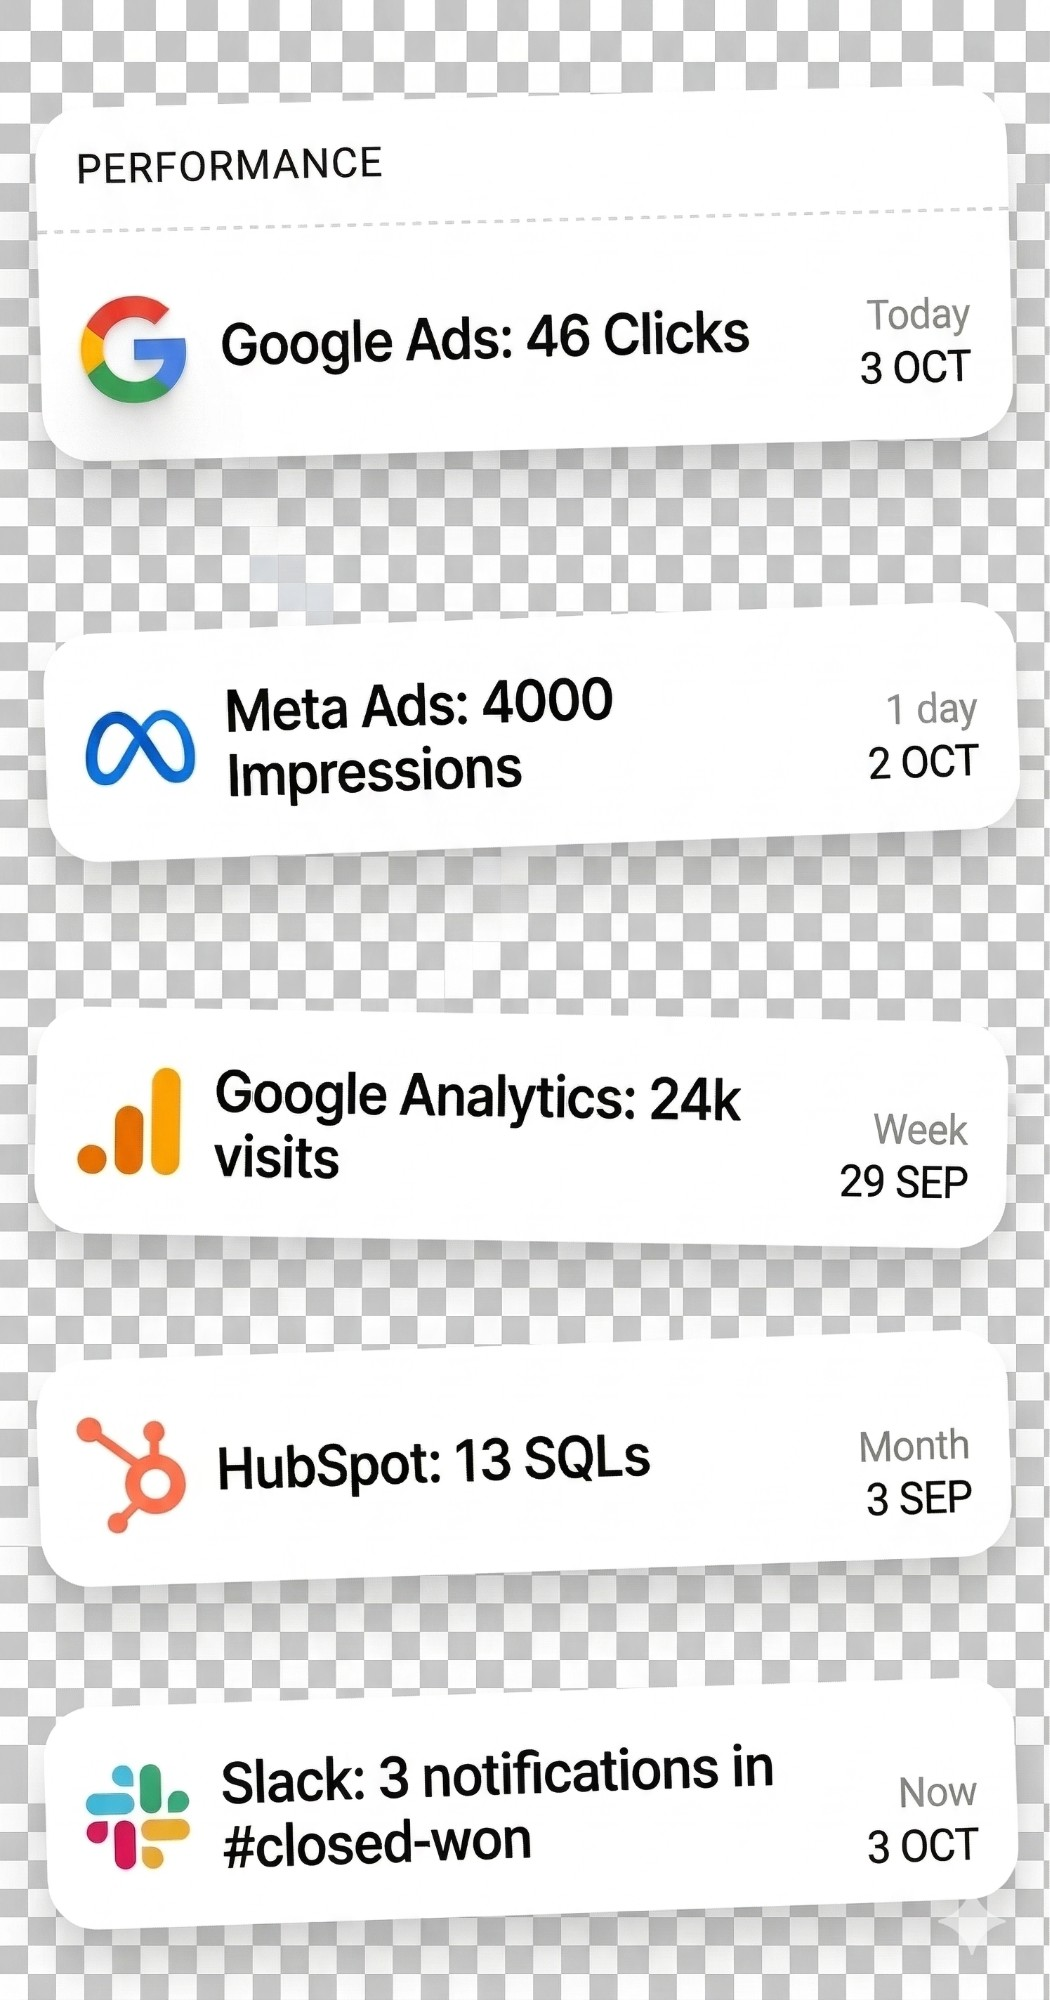
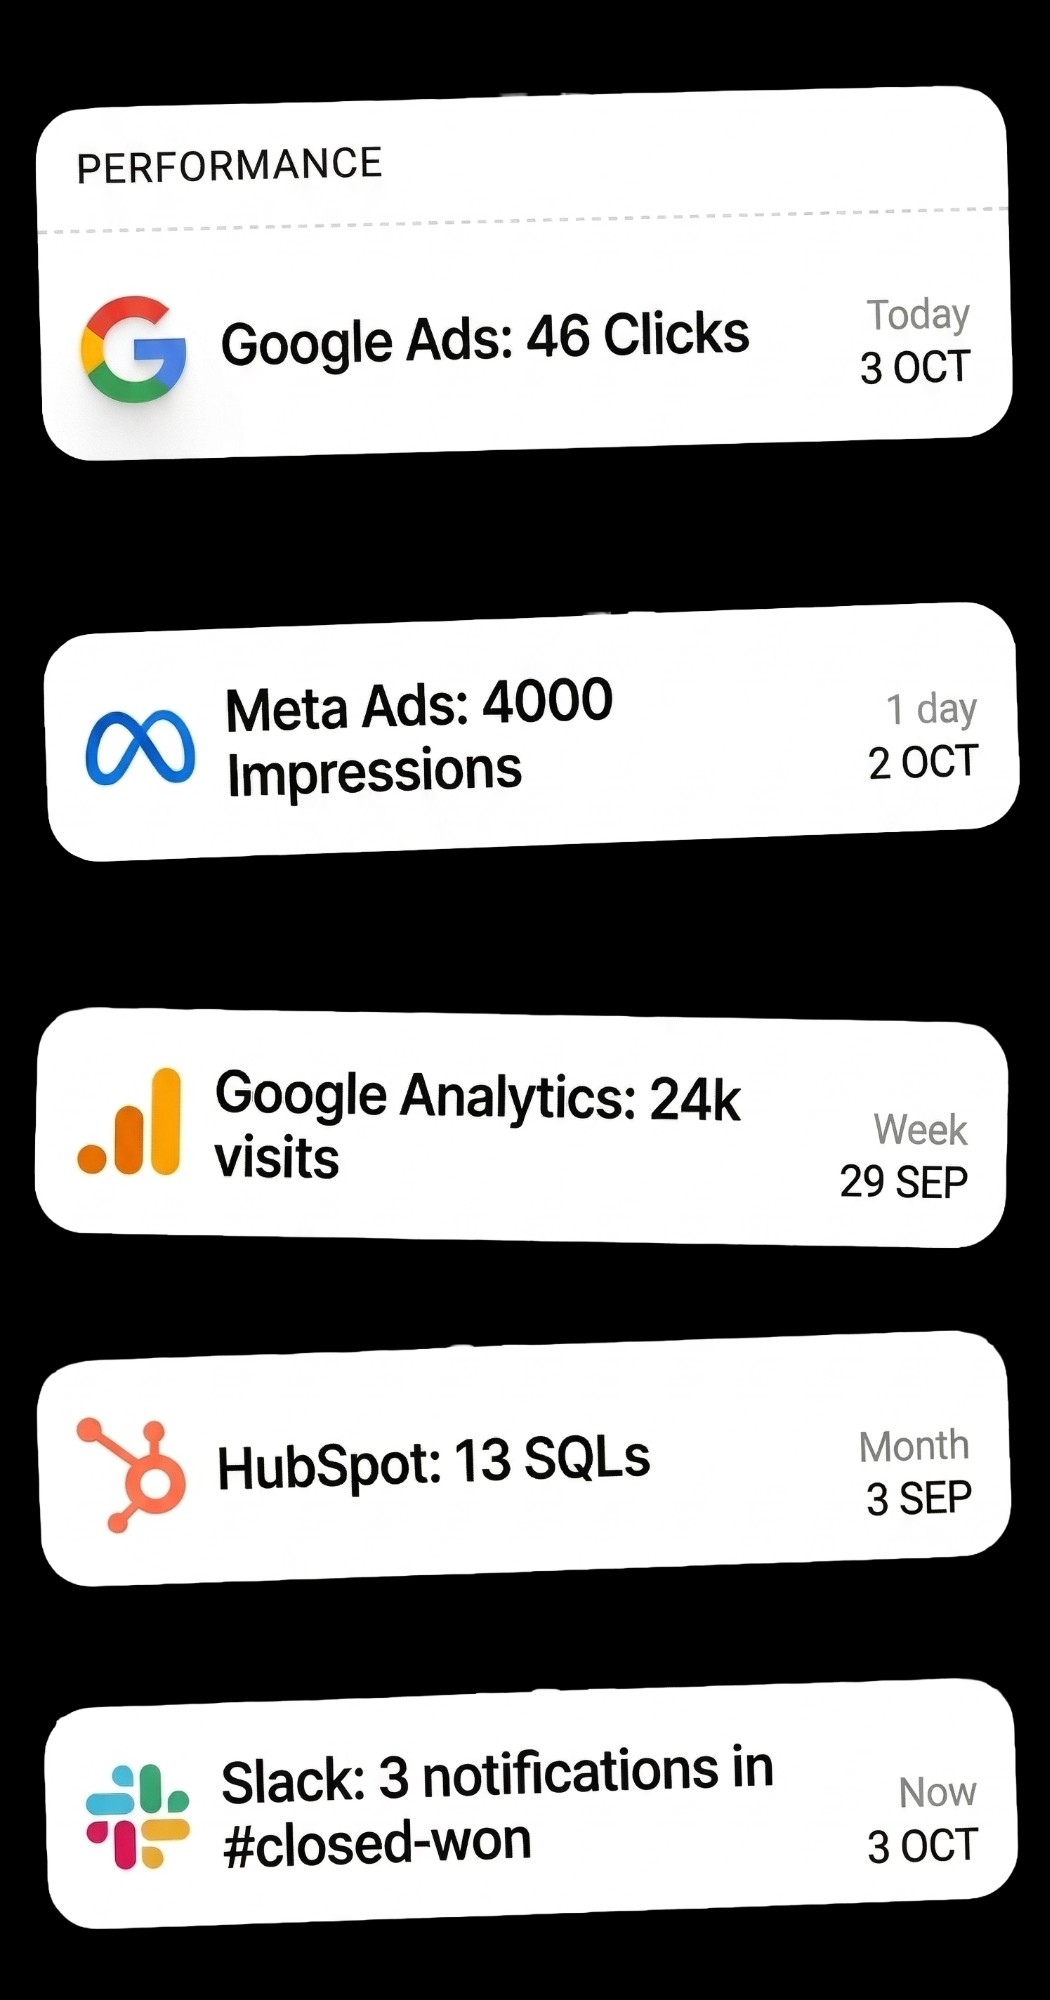
Replace hero dashboard image and use dark device-frame container

diff --git a/src/app/globals.css b/src/app/globals.css
@@ -236,10 +236,10 @@ nav {
   animation: fadeUp 0.9s 0.3s ease both;
 }
 .hero-dashboard-wrap {
-  background: #f4f4f2;
+  background: #080808;
   border-radius: 28px;
-  padding: 24px 20px 0 20px;
-  box-shadow: 0 32px 80px rgba(25,91,90,0.16), 0 8px 24px rgba(0,0,0,0.07);
+  padding: 20px 16px;
+  box-shadow: 0 32px 80px rgba(0,0,0,0.28), 0 8px 24px rgba(0,0,0,0.12);
   transform: rotate(2deg);
   transition: transform 0.4s ease;
   overflow: hidden;
@@ -252,7 +252,7 @@ nav {
 .hero-dashboard-img {
   width: 100%;
   display: block;
-  border-radius: 12px 12px 0 0;
+  border-radius: 4px;
 }
 .hero-tag {
   font-family: var(--font-body), Arial, sans-serif; font-size: 0.82rem; font-weight: 500;
